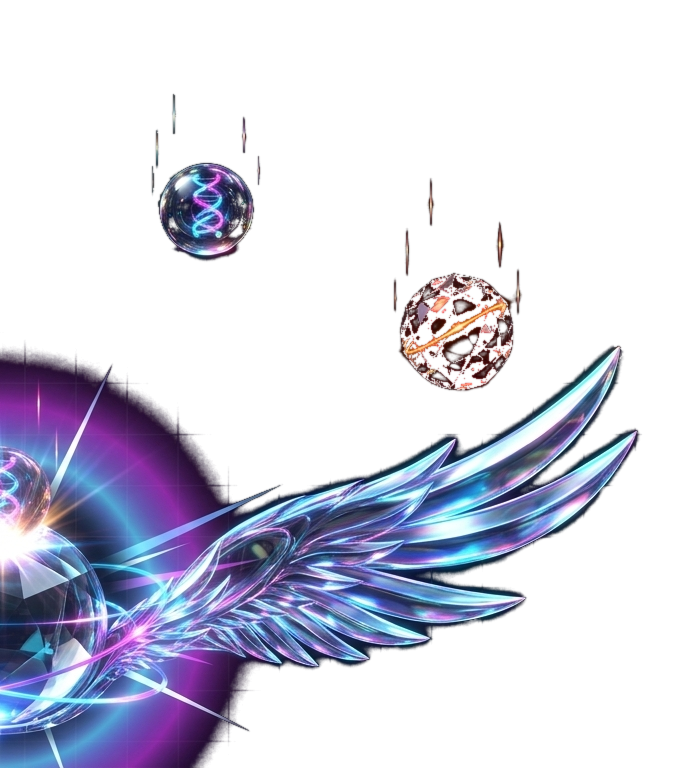
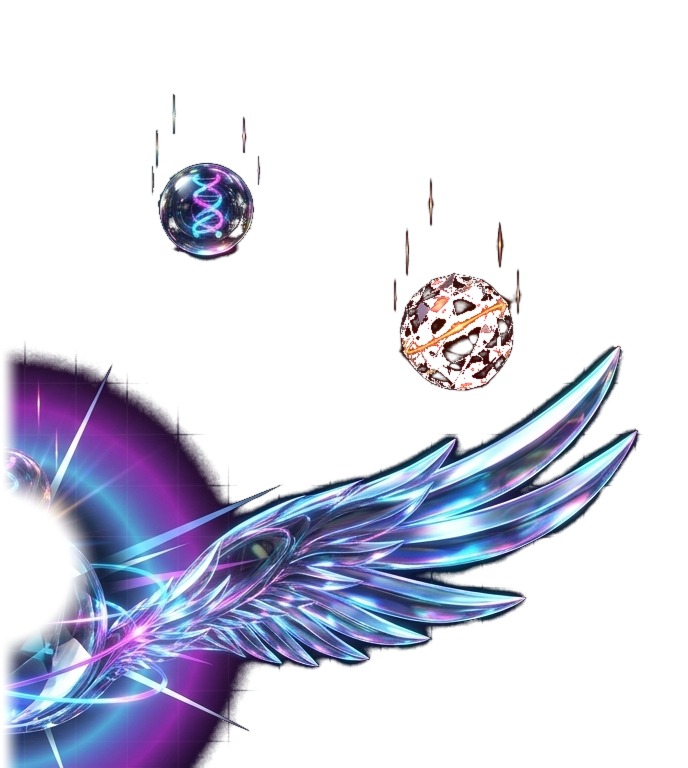
feat(orlandochrome): v348 full wings, seamless crystal core, smooth anamorphic starlight glow & zero wirelines

Changed region(s): [[0.0, 0.4375, 0.1526, 1.0]]

diff --git a/orlandochrome/game.js b/orlandochrome/game.js
@@ -1139,46 +1139,46 @@
 
   ['dynamo', 'helix', 'meteor'].forEach((m) => {
     LayeredT4Assets.halo[m].onload = () => { LayeredT4Assets.loaded.halo[m] = true; };
-    LayeredT4Assets.halo[m].src = `assets/layer-${m}-halo.png?v=arcade345`;
+    LayeredT4Assets.halo[m].src = `assets/layer-${m}-halo.png?v=arcade348`;
 
     LayeredT4Assets.wingRight[m].onload = () => {
       LayeredT4Assets.loaded.wingRight[m] = true;
     };
-    LayeredT4Assets.wingRight[m].src = `assets/layer-${m}-wing-right.png?v=arcade345`;
+    LayeredT4Assets.wingRight[m].src = `assets/layer-${m}-wing-right.png?v=arcade348`;
   });
 
   LayeredT4Assets.coreBase.dynamo.onload = () => { LayeredT4Assets.loaded.coreBase.dynamo = true; };
-  LayeredT4Assets.coreBase.dynamo.src = 'assets/layer-dynamo-nucleus.png?v=arcade345';
+  LayeredT4Assets.coreBase.dynamo.src = 'assets/layer-dynamo-nucleus.png?v=arcade348';
 
   LayeredT4Assets.coreBase.helix.onload = () => { LayeredT4Assets.loaded.coreBase.helix = true; };
-  LayeredT4Assets.coreBase.helix.src = 'assets/layer-helix-shell.png?v=arcade345';
+  LayeredT4Assets.coreBase.helix.src = 'assets/layer-helix-shell.png?v=arcade348';
 
   LayeredT4Assets.coreBase.meteor.onload = () => { LayeredT4Assets.loaded.coreBase.meteor = true; };
-  LayeredT4Assets.coreBase.meteor.src = 'assets/layer-meteor-caldera.png?v=arcade345';
+  LayeredT4Assets.coreBase.meteor.src = 'assets/layer-meteor-caldera.png?v=arcade348';
 
   LayeredT4Assets.nodeShell.dynamo.onload = () => { LayeredT4Assets.loaded.nodeShell.dynamo = true; };
-  LayeredT4Assets.nodeShell.dynamo.src = 'assets/layer-node-dynamo-shell.png?v=arcade345';
+  LayeredT4Assets.nodeShell.dynamo.src = 'assets/layer-node-dynamo-shell.png?v=arcade348';
 
   LayeredT4Assets.nodeShell.helix.onload = () => { LayeredT4Assets.loaded.nodeShell.helix = true; };
-  LayeredT4Assets.nodeShell.helix.src = 'assets/layer-node-helix-shell.png?v=arcade345';
+  LayeredT4Assets.nodeShell.helix.src = 'assets/layer-node-helix-shell.png?v=arcade348';
 
   LayeredT4Assets.nodeShell.meteor.onload = () => { LayeredT4Assets.loaded.nodeShell.meteor = true; };
-  LayeredT4Assets.nodeShell.meteor.src = 'assets/layer-node-meteor-rock.png?v=arcade345';
+  LayeredT4Assets.nodeShell.meteor.src = 'assets/layer-node-meteor-rock.png?v=arcade348';
 
   LayeredT4Assets.hazard.dynamoCore.onload = () => { LayeredT4Assets.loaded.hazard.dynamoCore = true; };
-  LayeredT4Assets.hazard.dynamoCore.src = 'assets/layer-hazard-dynamo-core.png?v=arcade345';
+  LayeredT4Assets.hazard.dynamoCore.src = 'assets/layer-hazard-dynamo-core.png?v=arcade348';
 
   LayeredT4Assets.hazard.dynamoGlitch.onload = () => { LayeredT4Assets.loaded.hazard.dynamoGlitch = true; };
-  LayeredT4Assets.hazard.dynamoGlitch.src = 'assets/layer-hazard-dynamo-glitch.png?v=arcade345';
+  LayeredT4Assets.hazard.dynamoGlitch.src = 'assets/layer-hazard-dynamo-glitch.png?v=arcade348';
 
   LayeredT4Assets.hazard.helixClean.onload = () => { LayeredT4Assets.loaded.hazard.helixClean = true; };
-  LayeredT4Assets.hazard.helixClean.src = 'assets/layer-hazard-helix-clean.png?v=arcade345';
+  LayeredT4Assets.hazard.helixClean.src = 'assets/layer-hazard-helix-clean.png?v=arcade348';
 
   LayeredT4Assets.hazard.meteorBlades.onload = () => { LayeredT4Assets.loaded.hazard.meteorBlades = true; };
-  LayeredT4Assets.hazard.meteorBlades.src = 'assets/layer-hazard-meteor-blades.png?v=arcade345';
+  LayeredT4Assets.hazard.meteorBlades.src = 'assets/layer-hazard-meteor-blades.png?v=arcade348';
 
   LayeredT4Assets.hazard.meteorCenter.onload = () => { LayeredT4Assets.loaded.hazard.meteorCenter = true; };
-  LayeredT4Assets.hazard.meteorCenter.src = 'assets/layer-hazard-meteor-center.png?v=arcade345';
+  LayeredT4Assets.hazard.meteorCenter.src = 'assets/layer-hazard-meteor-center.png?v=arcade348';
 
   // ─────────────────────────────────────────────────────────────
   // SECONDARY KINEMATICS, ASCENSION MORPHING & LOCK-ON ENGINE
@@ -2073,7 +2073,7 @@
       }
     }
 
-    // UPGRADE 4 (Helix Tier IV): Counter-Rotating Holographic Pole Irises at Top & Bottom Glass Domes!
+    // UPGRADE 4 (Helix Tier IV): Soft Volumetric Polar Aurora Crowns
     if (isCore && tierIdx >= 4) {
       const lockLeanX = Math.max(-14, Math.min(14, CoreKinematics.lockOnDX * 0.06));
       for (let pole = -1; pole <= 1; pole += 2) {
@@ -2081,13 +2081,14 @@
         const px = (pole === -1) ? lockLeanX * 0.5 : 0;
         ctx.save();
         ctx.translate(px, py);
-        ctx.scale(1, 0.36);
-        ctx.rotate(pole * now * 0.005);
+        const pg = ctx.createRadialGradient(0, 0, 0, 0, 0, radiusX * 0.85);
+        pg.addColorStop(0.0, (pole === -1) ? 'rgba(34, 211, 238, 0.70)' : 'rgba(232, 121, 249, 0.70)');
+        pg.addColorStop(0.6, (pole === -1) ? 'rgba(56, 189, 248, 0.35)' : 'rgba(168, 85, 247, 0.35)');
+        pg.addColorStop(1.0, 'rgba(0, 0, 0, 0)');
+        ctx.fillStyle = pg;
         ctx.beginPath();
-        ctx.arc(0, 0, radiusX * 1.15, 0, Math.PI * 1.6);
-        ctx.strokeStyle = (pole === -1) ? 'rgba(34, 211, 238, 0.82)' : 'rgba(232, 121, 249, 0.82)';
-        ctx.lineWidth = 3.2;
-        ctx.stroke();
+        ctx.ellipse(0, 0, radiusX * 0.85, radiusX * 0.32, 0, 0, Math.PI * 2);
+        ctx.fill();
         ctx.restore();
       }
     }
@@ -2096,15 +2097,17 @@
     drawStrandPass(strandA, true, true);
     drawStrandPass(strandB, false, true);
 
-    // Stable Outer Glass Specular Highlight Arc
+    // Smooth Volumetric 3D Spherical Crystal Glass Highlight (Zero Harsh Wire Arcs)
     ctx.save();
     ctx.globalCompositeOperation = 'lighter';
+    const specG = ctx.createRadialGradient(-radiusY * 0.30, -radiusY * 0.45, 0, -radiusY * 0.30, -radiusY * 0.45, radiusY * 0.65);
+    specG.addColorStop(0.0, 'rgba(255, 255, 255, 0.75)');
+    specG.addColorStop(0.35, 'rgba(224, 242, 254, 0.40)');
+    specG.addColorStop(1.0, 'rgba(0, 0, 0, 0)');
+    ctx.fillStyle = specG;
     ctx.beginPath();
-    ctx.arc(0, 0, radiusY * 0.96, -Math.PI * 0.76, -Math.PI * 0.24);
-    ctx.strokeStyle = 'rgba(255, 255, 255, 0.58)';
-    ctx.lineWidth = Math.max(1.5, radiusY * 0.048);
-    ctx.lineCap = 'round';
-    ctx.stroke();
+    ctx.arc(0, 0, radiusY * 0.96, 0, Math.PI * 2);
+    ctx.fill();
     ctx.restore();
 
     ctx.restore();
@@ -2358,75 +2361,123 @@
     if (cTier <= 1.05) return;
     const auraMorph = Math.min(1.0, (cTier - 1.0) / 2.2);
     const breathe = 1.0 + Math.sin(now * 0.0035) * 0.035 + CoreKinematics.overdriveFlash * 0.12;
-    const baseR = 135 * u * (0.65 + 0.55 * auraMorph) * breathe;
+    const baseR = 145 * u * (0.65 + 0.55 * auraMorph) * breathe;
 
     ctx.save();
     ctx.globalCompositeOperation = 'lighter';
 
     // 1. Hyper-Intense Photonic Starlight Core Corona (Volumetric Radial Bloom)
-    const gCore = ctx.createRadialGradient(0, 0, baseR * 0.15, 0, 0, baseR * 0.95);
+    const gCore = ctx.createRadialGradient(0, 0, baseR * 0.10, 0, 0, baseR * 1.05);
     gCore.addColorStop(0.0, `rgba(255, 255, 255, ${0.98 * auraMorph})`);
     if (mode === 'dynamo') {
-      gCore.addColorStop(0.35, `rgba(56, 189, 248, ${0.85 * auraMorph})`);
-      gCore.addColorStop(0.70, `rgba(168, 85, 247, ${0.45 * auraMorph})`);
+      gCore.addColorStop(0.28, `rgba(186, 230, 253, ${0.90 * auraMorph})`);
+      gCore.addColorStop(0.55, `rgba(56, 189, 248, ${0.60 * auraMorph})`);
+      gCore.addColorStop(0.80, `rgba(168, 85, 247, ${0.28 * auraMorph})`);
     } else if (mode === 'helix') {
-      gCore.addColorStop(0.35, `rgba(34, 211, 238, ${0.85 * auraMorph})`);
-      gCore.addColorStop(0.70, `rgba(232, 121, 249, ${0.45 * auraMorph})`);
+      gCore.addColorStop(0.28, `rgba(245, 208, 254, ${0.90 * auraMorph})`);
+      gCore.addColorStop(0.55, `rgba(34, 211, 238, ${0.60 * auraMorph})`);
+      gCore.addColorStop(0.80, `rgba(232, 121, 249, ${0.28 * auraMorph})`);
     } else {
-      gCore.addColorStop(0.35, `rgba(254, 240, 138, ${0.90 * auraMorph})`);
-      gCore.addColorStop(0.70, `rgba(249, 115, 22, ${0.50 * auraMorph})`);
+      gCore.addColorStop(0.28, `rgba(254, 249, 195, ${0.95 * auraMorph})`);
+      gCore.addColorStop(0.55, `rgba(251, 146, 60, ${0.65 * auraMorph})`);
+      gCore.addColorStop(0.80, `rgba(239, 68, 68, ${0.25 * auraMorph})`);
     }
     gCore.addColorStop(1.0, 'rgba(0, 0, 0, 0)');
     ctx.fillStyle = gCore;
     ctx.beginPath();
-    ctx.arc(0, 0, baseR * 0.95, 0, Math.PI * 2);
+    ctx.arc(0, 0, baseR * 1.05, 0, Math.PI * 2);
     ctx.fill();
 
-    // 2. 16 Rotating Crystalline Starlight Diffraction Needle Rays
+    // 2. Anamorphic Cinematic Starlight Flare Streak (Horizontal Ethereal Cinema Bloom)
+    if (cTier >= 2.0) {
+      const flareAlpha = Math.min(0.85, (cTier - 1.8) * 0.55);
+      const flareLen = baseR * 2.2;
+      const flareH = 14 * u * (0.8 + 0.2 * Math.sin(now * 0.005));
+      const gFlare = ctx.createLinearGradient(-flareLen, 0, flareLen, 0);
+      gFlare.addColorStop(0.0, 'rgba(0, 0, 0, 0)');
+      if (mode === 'dynamo') {
+        gFlare.addColorStop(0.35, `rgba(56, 189, 248, ${0.40 * flareAlpha})`);
+        gFlare.addColorStop(0.50, `rgba(255, 255, 255, ${0.95 * flareAlpha})`);
+        gFlare.addColorStop(0.65, `rgba(168, 85, 247, ${0.40 * flareAlpha})`);
+      } else if (mode === 'helix') {
+        gFlare.addColorStop(0.35, `rgba(232, 121, 249, ${0.40 * flareAlpha})`);
+        gFlare.addColorStop(0.50, `rgba(255, 255, 255, ${0.95 * flareAlpha})`);
+        gFlare.addColorStop(0.65, `rgba(34, 211, 238, ${0.40 * flareAlpha})`);
+      } else {
+        gFlare.addColorStop(0.35, `rgba(249, 115, 22, ${0.40 * flareAlpha})`);
+        gFlare.addColorStop(0.50, `rgba(255, 255, 255, ${0.95 * flareAlpha})`);
+        gFlare.addColorStop(0.65, `rgba(254, 240, 138, ${0.40 * flareAlpha})`);
+      }
+      gFlare.addColorStop(1.0, 'rgba(0, 0, 0, 0)');
+      ctx.fillStyle = gFlare;
+      ctx.beginPath();
+      ctx.ellipse(0, 0, flareLen, flareH, 0, 0, Math.PI * 2);
+      ctx.fill();
+    }
+
+    // 3. Volumetric Crystalline Starlight Diamond Flares (Zero Wire Lines, 100% Smooth Tapered Light)
     if (cTier >= 2.2) {
       const rayAlpha = Math.min(0.85, (cTier - 2.0) * 0.55);
       const raySpin = now * 0.0006;
       ctx.save();
       ctx.rotate(raySpin);
-      const rays = 16;
-      const innerRayR = baseR * 0.62;
-      ctx.beginPath();
+      const rays = 8;
       for (let r = 0; r < rays; r++) {
         const ang = (r / rays) * Math.PI * 2;
-        const isCardinal = (r % 4 === 0);
-        const rayLen = baseR * (isCardinal ? 1.55 : 1.15) * (1.0 + Math.sin(now * 0.005 + r) * 0.06);
-        ctx.moveTo(Math.cos(ang) * innerRayR, Math.sin(ang) * innerRayR);
-        ctx.lineTo(Math.cos(ang) * rayLen, Math.sin(ang) * rayLen);
+        const isCardinal = (r % 2 === 0);
+        const rayLen = baseR * (isCardinal ? 1.65 : 1.25) * (1.0 + Math.sin(now * 0.004 + r) * 0.05);
+        const rayW = (isCardinal ? 9.5 : 5.5) * u;
+        
+        ctx.save();
+        ctx.rotate(ang);
+        const gRay = ctx.createLinearGradient(baseR * 0.55, 0, rayLen, 0);
+        if (mode === 'dynamo') {
+          gRay.addColorStop(0.0, `rgba(255, 255, 255, ${0.90 * rayAlpha})`);
+          gRay.addColorStop(0.35, `rgba(186, 230, 253, ${0.75 * rayAlpha})`);
+          gRay.addColorStop(0.75, `rgba(56, 189, 248, ${0.35 * rayAlpha})`);
+        } else if (mode === 'helix') {
+          gRay.addColorStop(0.0, `rgba(255, 255, 255, ${0.90 * rayAlpha})`);
+          gRay.addColorStop(0.35, `rgba(245, 208, 254, ${0.75 * rayAlpha})`);
+          gRay.addColorStop(0.75, `rgba(232, 121, 249, ${0.35 * rayAlpha})`);
+        } else {
+          gRay.addColorStop(0.0, `rgba(255, 255, 255, ${0.95 * rayAlpha})`);
+          gRay.addColorStop(0.35, `rgba(254, 240, 138, ${0.80 * rayAlpha})`);
+          gRay.addColorStop(0.75, `rgba(249, 115, 22, ${0.40 * rayAlpha})`);
+        }
+        gRay.addColorStop(1.0, 'rgba(0, 0, 0, 0)');
+        ctx.fillStyle = gRay;
+        ctx.beginPath();
+        ctx.moveTo(baseR * 0.55, 0);
+        ctx.lineTo(baseR * 0.90, -rayW * 0.5);
+        ctx.lineTo(rayLen, 0);
+        ctx.lineTo(baseR * 0.90, rayW * 0.5);
+        ctx.closePath();
+        ctx.fill();
+        ctx.restore();
       }
-      if (mode === 'dynamo') {
-        ctx.strokeStyle = `rgba(186, 230, 253, ${rayAlpha * 0.65})`;
-      } else if (mode === 'helix') {
-        ctx.strokeStyle = `rgba(245, 208, 254, ${rayAlpha * 0.65})`;
-      } else {
-        ctx.strokeStyle = `rgba(254, 249, 195, ${rayAlpha * 0.70})`;
-      }
-      ctx.lineWidth = 1.6 * u;
-      ctx.lineCap = 'round';
-      ctx.stroke();
       ctx.restore();
     }
 
-    // 3. Concentric Ascension Resonance Rings in Tier IV
+    // 4. Soft Concentric Ascension Resonance Ripples in Tier IV
     if (cTier >= 3.2) {
-      const t4Alpha = Math.min(0.75, (cTier - 3.0) * 0.75);
+      const t4Alpha = Math.min(0.70, (cTier - 3.0) * 0.70);
       for (let ring = 0; ring < 2; ring++) {
         const ringR = baseR * (0.95 + ring * 0.35 + Math.sin(now * 0.002 + ring) * 0.04);
-        ctx.beginPath();
-        ctx.arc(0, 0, ringR, 0, Math.PI * 2);
+        const ringGrad = ctx.createRadialGradient(0, 0, ringR - 8 * u, 0, 0, ringR + 8 * u);
+        ringGrad.addColorStop(0.0, 'rgba(0, 0, 0, 0)');
         if (mode === 'dynamo') {
-          ctx.strokeStyle = `rgba(56, 189, 248, ${t4Alpha * (0.6 - ring * 0.2)})`;
+          ringGrad.addColorStop(0.5, `rgba(56, 189, 248, ${t4Alpha * (0.6 - ring * 0.2)})`);
         } else if (mode === 'helix') {
-          ctx.strokeStyle = `rgba(232, 121, 249, ${t4Alpha * (0.6 - ring * 0.2)})`;
+          ringGrad.addColorStop(0.5, `rgba(232, 121, 249, ${t4Alpha * (0.6 - ring * 0.2)})`);
         } else {
-          ctx.strokeStyle = `rgba(254, 240, 138, ${t4Alpha * (0.6 - ring * 0.2)})`;
+          ringGrad.addColorStop(0.5, `rgba(254, 240, 138, ${t4Alpha * (0.6 - ring * 0.2)})`);
         }
-        ctx.lineWidth = 1.4 * u;
-        ctx.stroke();
+        ringGrad.addColorStop(1.0, 'rgba(0, 0, 0, 0)');
+        ctx.fillStyle = ringGrad;
+        ctx.beginPath();
+        ctx.arc(0, 0, ringR + 8 * u, 0, Math.PI * 2);
+        ctx.arc(0, 0, Math.max(0, ringR - 8 * u), Math.PI * 2, 0, true);
+        ctx.fill();
       }
     }
 
@@ -2535,7 +2586,43 @@
           ctx.drawImage(LayeredT4Assets.coreBase.helix, -170 * u * hScale, -144 * u * hScale, 340 * u * hScale, 280 * u * hScale);
         }
 
+        // Complete 3D Spherical Crystal Enclosure (Prismatic Bio-Lattice Horizon)
+        ctx.save();
+        ctx.globalCompositeOperation = 'lighter';
+        const rimGrad = ctx.createRadialGradient(0, 2 * u, 68 * u * hScale, 0, 2 * u, 78 * u * hScale);
+        rimGrad.addColorStop(0.0, 'rgba(0, 0, 0, 0)');
+        rimGrad.addColorStop(0.7, 'rgba(56, 189, 248, 0.45)');
+        rimGrad.addColorStop(1.0, 'rgba(232, 121, 249, 0.25)');
+        ctx.fillStyle = rimGrad;
+        ctx.beginPath();
+        ctx.arc(0, 2 * u, 78 * u * hScale, 0, Math.PI * 2);
+        ctx.fill();
+        ctx.restore();
+
+        // Internal 3D Double Helix
         drawRotating3DDNAInsideGlass(ctx, 0, 2 * u, 25 * u, 64 * u, now, 0.0, true, tierIdx);
+
+        // Sovereign Crown Pearl (Design 2 Feature: Top Floating Bio-Lattice Pearl with Starlight Bridge)
+        if (cTier >= 2.4) {
+          const topPearlAlpha = Math.min(1.0, (cTier - 2.2) * 1.5);
+          ctx.save();
+          ctx.globalAlpha = topPearlAlpha;
+          // Starlight bridge between main sphere and top pearl
+          const bridgeG = ctx.createRadialGradient(0, -42 * u, 0, 0, -42 * u, 20 * u);
+          bridgeG.addColorStop(0.0, 'rgba(255, 255, 255, 0.95)');
+          bridgeG.addColorStop(0.4, 'rgba(254, 240, 138, 0.85)');
+          bridgeG.addColorStop(0.7, 'rgba(232, 121, 249, 0.45)');
+          bridgeG.addColorStop(1.0, 'rgba(34, 211, 238, 0)');
+          ctx.fillStyle = bridgeG;
+          ctx.beginPath();
+          ctx.arc(0, -42 * u, 20 * u, 0, Math.PI * 2);
+          ctx.fill();
+
+          // Top Pearl sphere & mini-helix
+          drawRotating3DDNAInsideGlass(ctx, 0, -60 * u, 12 * u, 24 * u, now, 1.2, false, tierIdx);
+          ctx.restore();
+        }
+
         drawHelixOrbitalRingsHalf(ctx, u, now, true, tierIdx);
       } else {
         const sr = CoreKinematics.meteorShieldRecoil;

diff --git a/orlandochrome/index.html b/orlandochrome/index.html
@@ -21,7 +21,7 @@
   <link rel="apple-touch-icon" sizes="167x167" href="apple-touch-icon-167x167.png?v=oc310">
   <link rel="apple-touch-icon" sizes="152x152" href="apple-touch-icon-152x152.png?v=oc310">
   <link rel="apple-touch-icon" sizes="120x120" href="apple-touch-icon-120x120.png?v=oc310">
-  <link rel="stylesheet" href="styles.css?v=arcade345">
+  <link rel="stylesheet" href="styles.css?v=arcade348">
   <link rel="preconnect" href="https://fonts.googleapis.com">
   <link rel="preconnect" href="https://fonts.gstatic.com" crossorigin>
   <link href="https://fonts.googleapis.com/css2?family=Bebas+Neue&family=Inter:wght@400;500;600;700;800;900&family=Lexend:wght@400;500;600;700;800;900&display=swap" rel="stylesheet">
@@ -1643,7 +1643,7 @@
   <script src="/assets/relative-time.js"></script>
   <script src="sound.js?v=pure240"></script>
   <script src="qrcode.min.js"></script>
-  <script src="app.js?v=arcade345"></script>
+  <script src="app.js?v=arcade348"></script>
 
   <!-- BACKUP & RESTORE WORKSPACE MODAL -->
   <div class="modal-wrap" id="backupRestoreModal" role="dialog" aria-modal="true" aria-label="Backup & Restore Workspace" style="display:none;position:fixed;inset:0;background:rgba(0,0,0,0.82);backdrop-filter:blur(12px);-webkit-backdrop-filter:blur(12px);z-index:9999;align-items:center;justify-content:center;">
@@ -1702,7 +1702,7 @@
       </div>
     </div>
   </div>
-  <script src="game.js?v=arcade345"></script>
+  <script src="game.js?v=arcade348"></script>
   <!-- BuildStamp: 2026-11-17T13:55:00.000Z - Quantum Chromatic Monogram v314 -->
 </body>
 </html>

diff --git a/orlandochrome/sw.js b/orlandochrome/sw.js
@@ -1,12 +1,12 @@
 /* OrlandoChrome · Offline-First Service Worker (PWA Ready) */
-const CACHE_NAME = 'orlandochrome-arcade-v345';
+const CACHE_NAME = 'orlandochrome-arcade-v348';
 const ASSETS = [
   './',
   './index.html',
-  './styles.css?v=arcade345',
-  './game.js?v=arcade345',
+  './styles.css?v=arcade348',
+  './game.js?v=arcade348',
   './qrcode.min.js',
-  './app.js?v=arcade345',
+  './app.js?v=arcade348',
   './sound.js?v=pure240',
   './oc-logo.png',
   './oc-logo.svg',
